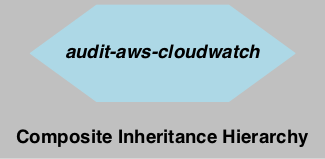
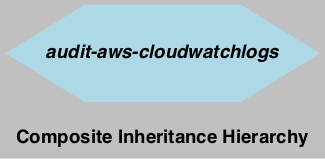
VAR change

Changed region(s): [[0.0, 0.0252, 0.8615, 0.6541], [0.7077, 0.0252, 0.9846, 0.6541]]

diff --git a/README.md b/README.md
@@ -1,0 +1,67 @@
+audit RDS
+============================
+This stack will monitor RDS and alert on things CloudCoreo developers think are violations of best practices
+
+
+## Description
+This repo is designed to work with CloudCoreo. It will monitor RDS against best practices for you and send a report to the email address designated by the config.yaml AUDIT_AWS_RDS_ALERT_RECIPIENT value
+
+## Hierarchy
+![composite inheritance hierarchy](https://raw.githubusercontent.com/CloudCoreo/STACK/master/images/hierarchy.png "composite inheritance hierarchy")
+
+
+
+## Required variables with no default
+
+**None**
+
+
+## Required variables with default
+
+### `AUDIT_AWS_CLOUDWATCHLOGS_ALLOW_EMPTY`:
+  * description: Would you like to receive empty reports? Options - true / false. Default is false.
+  * default: false
+
+### `AUDIT_AWS_CLOUDWATCHLOGS_SEND_ON`:
+  * description: Send reports always or only when there is a change? Options - always / change. Default is change.
+  * default: change
+
+### `AUDIT_AWS_CLOUDWATCHLOGS_REGIONS`:
+  * description: List of AWS regions to check. Default is all regions. Choices are us-east-1,us-east-2,us-west-1,us-west-2,ca-central-1,ap-south-1,ap-northeast-2,ap-southeast-1,ap-southeast-2,ap-northeast-1,eu-central-1,eu-west-1,eu-west-1,sa-east-1
+  * default: us-east-1, us-east-2, us-west-1, us-west-2, ca-central-1, ap-south-1, ap-northeast-2, ap-southeast-1, ap-southeast-2, ap-northeast-1, eu-central-1, eu-west-1, eu-west-2, sa-east-1
+
+
+## Optional variables with default
+
+### `AUDIT_AWS_CLOUDWATCHLOGS_ALERT_LIST`:
+  * description: Which alerts would you like to check for? Default is all Cloudwatchlogs alerts. Choices are cloudwatchlogs-inventory
+  * default: cloudwatchlogs-inventory
+
+### `AUDIT_AWS_CLOUDWATCHLOGS_OWNER_TAG`:
+  * description: Enter an AWS tag whose value is an email address of the owner of the Cloudwatchlogs object. (Optional)
+  * default: NOT_A_TAG
+
+
+## Optional variables with no default
+
+### `AUDIT_AWS_CLOUDWATCHLOGS_ALERT_RECIPIENT`:
+  * description: Enter the email address(es) that will receive notifications. If more than one, separate each with a comma.
+
+## Tags
+1. Audit
+1. Best Practices
+1. Alert
+1. RDS
+
+## Categories
+1. Audit
+
+
+
+## Diagram
+![diagram](https://raw.githubusercontent.com/CloudCoreo/STACK/master/images/diagram.png "diagram")
+
+
+## Icon
+
+

diff --git a/description.md b/description.md
@@ -1,0 +1,1 @@
+This repo is designed to work with CloudCoreo. It will monitor RDS against best practices for you and send a report to the email address designated by the config.yaml AUDIT_AWS_RDS_ALERT_RECIPIENT value

diff --git a/head.md b/head.md
@@ -1,0 +1,3 @@
+audit RDS
+============================
+This stack will monitor RDS and alert on things CloudCoreo developers think are violations of best practices

diff --git a/hierarchy.md b/hierarchy.md
@@ -1,0 +1,1 @@
+![composite inheritance hierarchy](https://raw.githubusercontent.com/CloudCoreo/STACK/master/images/hierarchy.png "composite inheritance hierarchy")

diff --git a/diagram.md b/diagram.md
@@ -1,0 +1,1 @@
+![diagram](https://raw.githubusercontent.com/CloudCoreo/STACK/master/images/diagram.png "diagram")

diff --git a/tags.md b/tags.md
@@ -1,0 +1,4 @@
+1. Audit
+1. Best Practices
+1. Alert
+1. RDS

diff --git a/categories.md b/categories.md
@@ -1,0 +1,2 @@
+1. Audit
+
